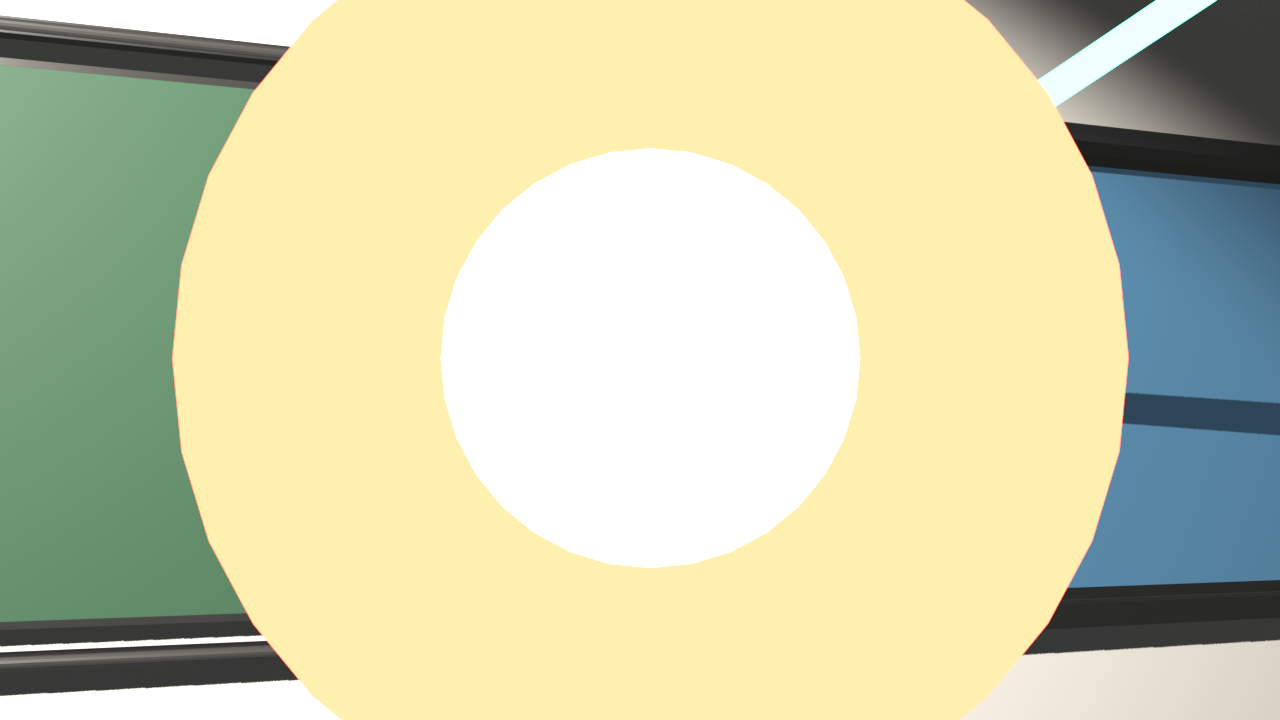
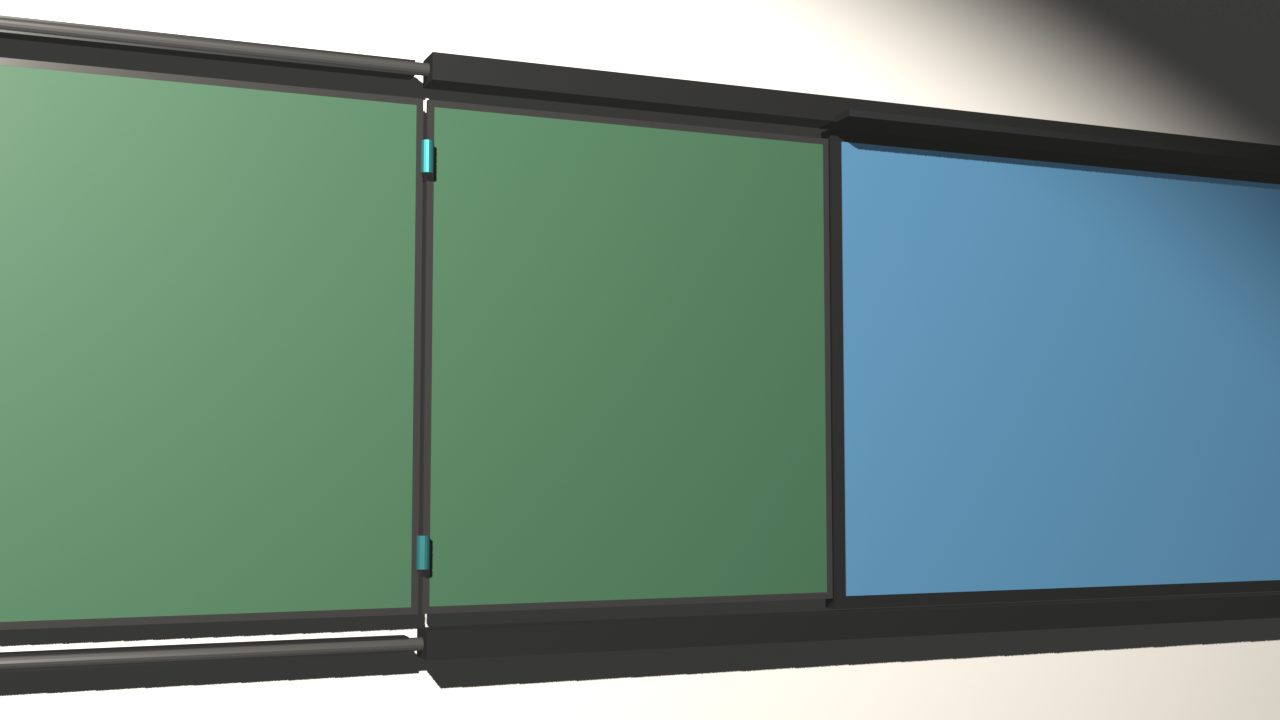
fix(student-pov): eliminate baked 3D mesh glare halo from raw student POV background

diff --git a/05-三维建模与Blender渲染/vlm_control/render_clean_student_pov.py b/05-三维建模与Blender渲染/vlm_control/render_clean_student_pov.py
@@ -1,0 +1,41 @@
+import bpy
+import time
+
+blend_path = r"D:\Desktop\CASTICpjhb\05-三维建模与Blender渲染\vlm_control\vi7_anti_glare_simulation_v2.blend"
+bpy.ops.wm.open_mainfile(filepath=blend_path)
+
+scene = bpy.context.scene
+
+# Hide all artificial beam meshes so student POV is completely clean!
+for obj in bpy.data.objects:
+    if "Beam_Danger" in obj.name or "Beam_Sun" in obj.name or "Beam_Safe" in obj.name:
+        obj.hide_render = True
+        obj.hide_viewport = True
+        print(f"Hidden mesh: {obj.name}")
+
+# Set camera to Camera_Student_POV_v2
+cam = bpy.data.objects.get("Camera_Student_POV_v2")
+scene.camera = cam
+
+# Render settings
+scene.render.resolution_x = 1280
+scene.render.resolution_y = 720
+scene.render.resolution_percentage = 100
+scene.render.image_settings.file_format = 'PNG'
+
+# We can use EEVEE or Cycles for high fidelity
+scene.render.engine = 'BLENDER_EEVEE'
+scene.frame_set(200)
+
+out_file = r"D:\Desktop\CASTICpjhb\05-三维建模与Blender渲染\vlm_control\preview_sim_v2_student_pov.png"
+scene.render.filepath = out_file
+
+print(f"Starting clean student POV render to {out_file} ...")
+t0 = time.time()
+bpy.ops.render.render(write_still=True)
+print(f"Clean student POV render completed in {time.time() - t0:.2f}s!")
+
+# Also copy to preview_sim_student_pov.png
+import shutil
+shutil.copyfile(out_file, r"D:\Desktop\CASTICpjhb\05-三维建模与Blender渲染\vlm_control\preview_sim_student_pov.png")
+print("Copied to preview_sim_student_pov.png successfully!")
